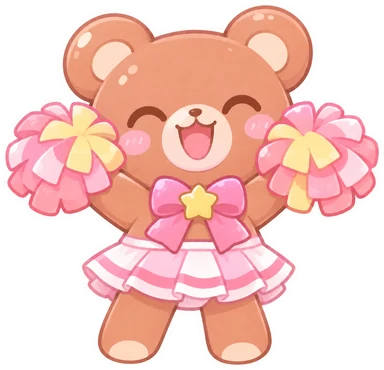
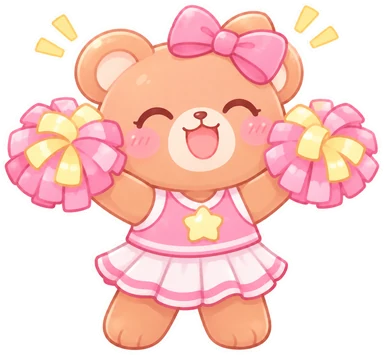
자동차 레이스: 곰·풍선·가로등·사탕 나라 모음 그림은 사탕 나라에서만 쓰기
Claude-Session: https://claude.ai/code/session_011wWXPXfSDQ7tZhHovBGBy9

diff --git a/src/components/Race3D.tsx b/src/components/Race3D.tsx
@@ -89,20 +89,27 @@ export function Race3D({ live, theme, car: carId }: { live: MutableRefObject<Rac
     // 길가: 장소마다 다른 나무(뒤로 지나가면 앞으로 옮겨 다시 쓴다) + 응원하는 곰 + 표지판
     const sideX = ROAD_W / 2 + 3
     const spriteOf = (tex: THREE.Texture, w: number, h: number, y: number) => { const sp = new THREE.Sprite(keep(new THREE.SpriteMaterial({ map: tex, transparent: true, depthWrite: false }))); sp.scale.set(w, h, 1); sp.position.y = y; return sp }
+    // [그림 이름, 높이, 가로세로 비율] — 높이 대비 폭은 spriteOf(w, h) 순서에 맞춰 아래에서 곱한다
+    const CANDY_BIG: [string, number, number][] = [['cd_cotton_pink', 4.4, 0.85], ['cd_lolli_a', 4.4, 0.74], ['cd_cotton_blue', 4.4, 0.81], ['prop_lollipop', 4.8, 0.65], ['cd_lolli_b', 4.4, 0.74]]
     const props = Array.from({ length: PROPS }, (_, i) => {
       const side = i % 2 ? 1 : -1, x = side * (sideX + (i % 3) * 2.2), z = -i * PROP_GAP
       const big = 0.9 + (i % 3) * 0.2
       const o = th.prop === 'tree' ? (i % 4 === 1 ? spriteOf(art('prop_tree2'), 4.7 * big, 4.4 * big, 2.2 * big) : spriteOf(art('prop_tree'), 4.6 * big, 4.2 * big, 2.1 * big))
-        : th.prop === 'xmas' ? spriteOf(art('prop_xmas'), 3.4 * big, 4.7 * big, 2.35 * big) : spriteOf(art('prop_lollipop'), 3.1 * big, 4.8 * big, 2.4 * big)
+        : th.prop === 'xmas' ? spriteOf(art('prop_xmas'), 3.4 * big, 4.7 * big, 2.35 * big) : (() => { const [img, h, asp] = CANDY_BIG[i % CANDY_BIG.length]; return spriteOf(art(img), h * big * asp, h * big, h * big / 2) })()
       o.position.x = x; o.position.z = z; scene.add(o)
       return { o, k: i }
     })
-    // 응원 구경꾼(곰·토끼·풍선·가로등)과 길가 꽃: 같은 자리를 돌려 쓴다
-    const CHEERS = 12, CHEER_GAP = 40
-    // 토끼·꽃무더기·꽃나무 그림은 초원에서만 쓴다(눈 나라·사탕 나라에는 나오지 않는다)
-    const meadow = theme === 'meadow'
-    const CHEER: [string, number, number][] = [['prop_bear', 2.6, 1.04], ['prop_balloons', 3.2, 0.68], ...(meadow ? [['prop_bunny', 3.0, 0.83] as [string, number, number]] : [['prop_bear2', 2.6, 1.08] as [string, number, number]]), ['prop_lamp', 3.8, 0.44], ['prop_bear2', 2.6, 1.08], ['prop_balloons', 3.2, 0.68]]
+    // 길가 구경거리: 그림마다 쓰는 곳이 정해져 있다(초원: 토끼·꽃무더기 / 사탕 나라: 곰·풍선·사탕 나라 모음 / 눈 나라: 크리스마스 나무만)
+    // [그림 이름, 높이, 가로세로 비율]
+    type Art = [string, number, number]
+    const meadow = theme === 'meadow', candy = theme === 'candy'
+    const CHEER: Art[] = meadow ? [['prop_bunny', 3.0, 0.83]] : candy ? [
+      ['prop_bear', 2.6, 1.04], ['cd_castle', 4.6, 0.92], ['prop_balloons', 3.2, 0.68], ['cd_lamp_a', 3.8, 0.54], ['cd_cakehouse', 3.6, 0.93], ['cd_cart', 2.8, 0.94],
+      ['cd_ginger', 3.2, 1.0], ['cd_lamp_b', 3.8, 0.51], ['cd_fountain', 2.8, 1.05], ['prop_lamp', 3.8, 0.44], ['cd_umbrella', 2.6, 1.09], ['cd_cupcake', 2.4, 0.86],
+      ['cd_bench', 1.9, 1.32], ['cd_sign', 2.6, 0.93], ['cd_fence', 1.6, 1.77], ['prop_balloons', 3.2, 0.68],
+    ] : []
     const signTex = art('prop_sign')
+    const CHEERS = CHEER.length ? 12 : 0, CHEER_GAP = 40
     const cheers = Array.from({ length: CHEERS }, (_, i) => {
       const [img, h, asp] = CHEER[i % CHEER.length]
       const o = spriteOf(art(img), h * asp, h, h / 2)
@@ -110,11 +117,15 @@ export function Race3D({ live, theme, car: carId }: { live: MutableRefObject<Rac
       scene.add(o)
       return { o, k: i }
     })
-    const FLOWERS = 14, FLOWER_GAP = 17
-    const flowerTex = art('prop_flowers')
-    const flowers = Array.from({ length: meadow ? FLOWERS : 0 }, (_, i) => {
-      const o = spriteOf(flowerTex, 1.7, 1.1, 0.55)
-      o.position.set((i % 2 ? 1 : -1) * (ROAD_W / 2 + 0.9 + (i % 3) * 0.5), 0.55, -8 - i * FLOWER_GAP)
+    const GROUND: Art[] = meadow ? [['prop_flowers', 1.1, 1.55]] : candy ? [
+      ['cd_bush', 1.2, 1.52], ['cd_gummy', 1.0, 1.5], ['cd_candy', 0.9, 1.5], ['cd_peppermint', 1.0, 1.03], ['cd_jelly', 1.1, 0.98], ['cd_gummybear', 1.3, 0.81],
+      ['cd_heartcookie', 1.0, 1.08], ['cd_starface', 1.1, 0.99],
+    ] : []
+    const FLOWERS = GROUND.length ? 14 : 0, FLOWER_GAP = 17
+    const flowers = Array.from({ length: FLOWERS }, (_, i) => {
+      const [img, h, asp] = GROUND[i % GROUND.length]
+      const o = spriteOf(art(img), h * asp, h, h / 2)
+      o.position.set((i % 2 ? 1 : -1) * (ROAD_W / 2 + 0.9 + (i % 3) * 0.5), h / 2, -8 - i * FLOWER_GAP)
       scene.add(o)
       return { o, k: i }
     })
